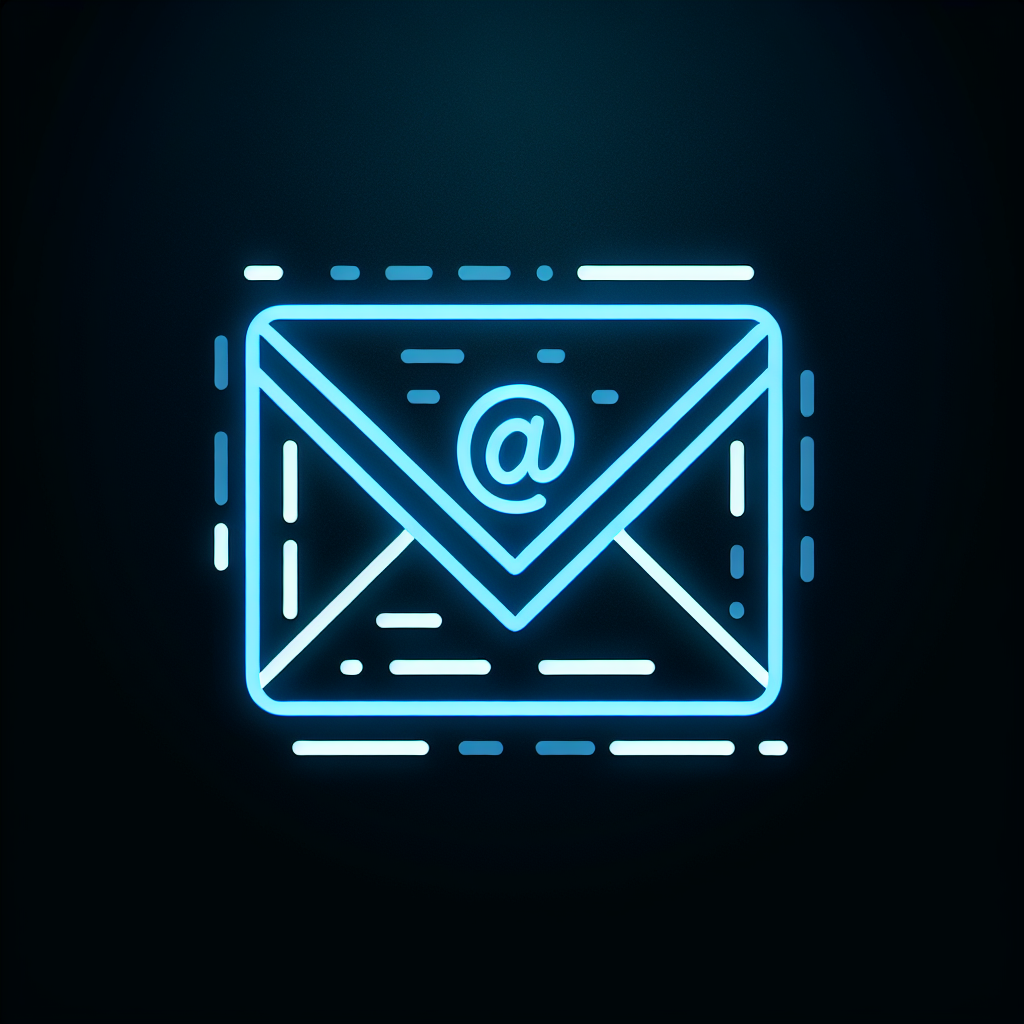
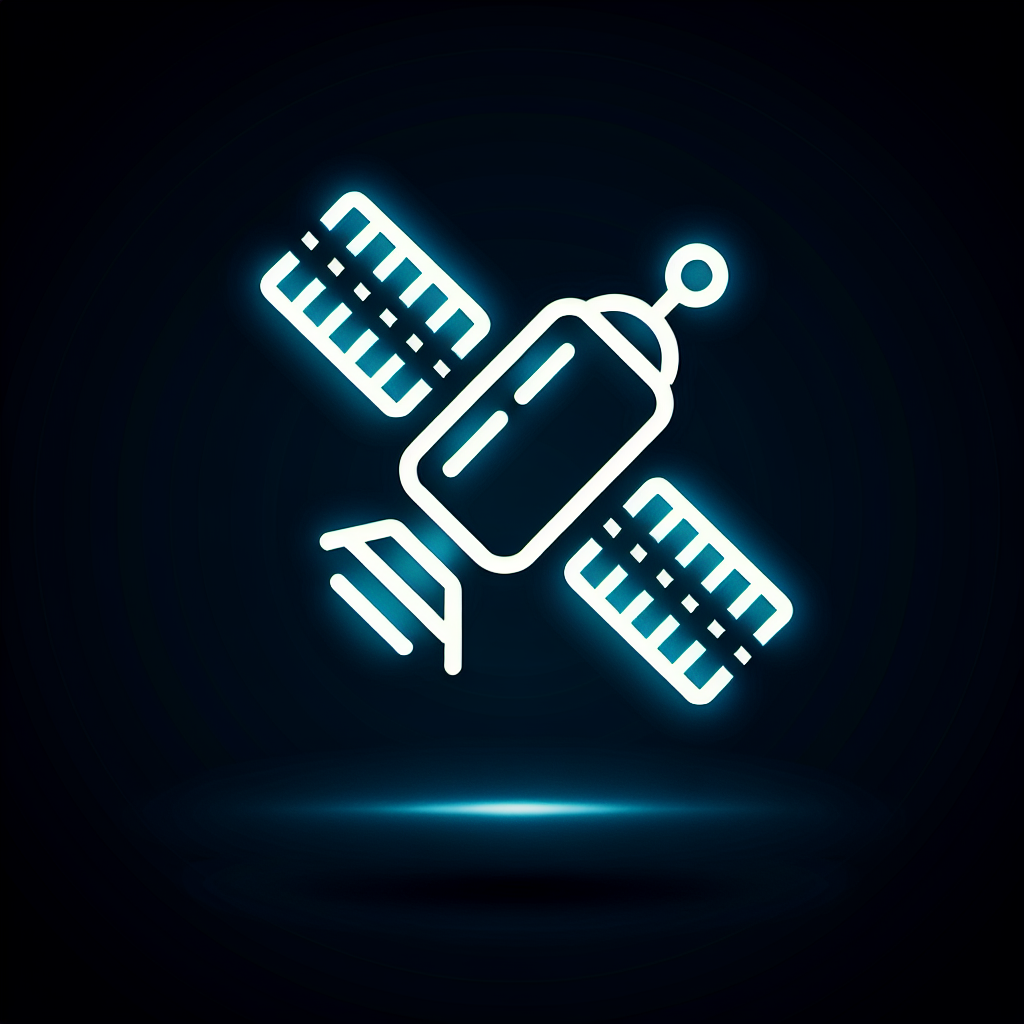
Fix checkout process issue by adjusting subscription settings
Remove `subscription_data` object from Stripe Checkout Session to resolve "payment_behavior" error.

Replit-Commit-Author: Agent
Replit-Commit-Session-Id: 2c27f2e5-cc2b-4a60-8224-e86f90306e0d
Replit-Commit-Screenshot-Url: https://storage.googleapis.com/screenshot-production-us-central1/5576850b-e33b-4452-9ca1-df59d7f8ebff/5b5e26dd-e8bb-44ca-9af3-fc8bdcec3c39.jpg

diff --git a/api/create-checkout-session.js b/api/create-checkout-session.js
@@ -113,10 +113,8 @@ export default async function handler(req, res) {
       locale: 'pt-BR',
       allow_promotion_codes: true,
       billing_address_collection: 'auto',
-      subscription_data: {
-        // Removendo completamente o campo trial_period_days
-        payment_behavior: 'default_incomplete' // Cobrar imediatamente
-      }
+      // Removendo completamente o objeto subscription_data para evitar problemas
+      // com o parâmetro payment_behavior
     });
 
     console.log(`[Vercel API] Sessão de checkout criada: ${session.id}, URL: ${session.url}`);
